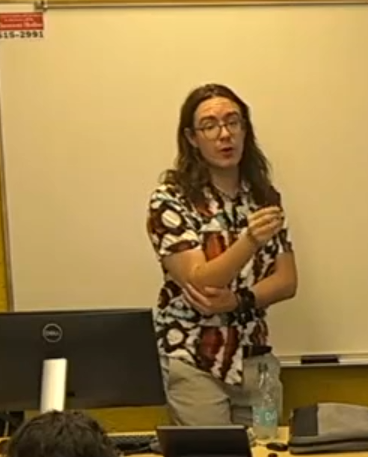
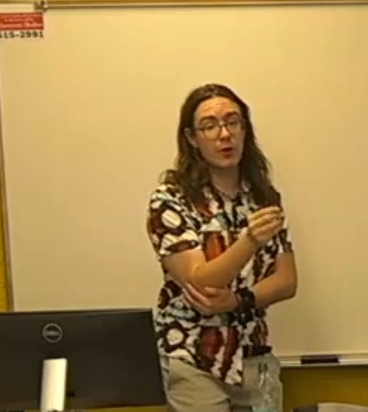
updates

diff --git a/docs/about.html b/docs/about.html
@@ -78,7 +78,7 @@ ul.task-list li input[type="checkbox"] {
       <div class="navbar-container container-fluid">
       <div class="navbar-brand-container mx-auto">
     <a class="navbar-brand" href="./index.html">
-    <span class="navbar-title">My Website</span>
+    <span class="navbar-title">Robert Michael Ferrand</span>
     </a>
   </div>
             <div id="quarto-search" class="" title="Search"></div>
@@ -86,14 +86,14 @@ ul.task-list li input[type="checkbox"] {
   <span class="navbar-toggler-icon"></span>
 </button>
           <div class="collapse navbar-collapse" id="navbarCollapse">
-            <ul class="navbar-nav navbar-nav-scroll ms-auto">
+            <ul class="navbar-nav navbar-nav-scroll me-auto">
   <li class="nav-item">
     <a class="nav-link active" href="./about.html" aria-current="page"> 
 <span class="menu-text">About</span></a>
   </li>  
   <li class="nav-item">
-    <a class="nav-link" href="./hello.html"> 
-<span class="menu-text">Hello</span></a>
+    <a class="nav-link" href="./projects.html"> 
+<span class="menu-text">Projects</span></a>
   </li>  
   <li class="nav-item">
     <a class="nav-link" href="./contact.html"> 
@@ -133,9 +133,7 @@ ul.task-list li input[type="checkbox"] {
 </header>
 
 
-<div class="row">
-<p><img src="images/1unedit.png" class="img-fluid quarto-figure quarto-figure-center" alt="Image 1"> <img src="images/1.5.jpg" class="img-fluid quarto-figure quarto-figure-center" alt="Image 2"> <img src="images/2.png" class="img-fluid quarto-figure quarto-figure-center" alt="Image 3"></p>
-</div>
+<p><img src="images/1unedit.png" class="img-fluid quarto-figure quarto-figure-center" style="width:29.5%" alt="Image 1"> <img src="images/1.5.jpg" class="img-fluid quarto-figure quarto-figure-center" style="filter: brightness(.90);width:33.0%" alt="Image 2"> <img src="images/2.PNG" class="img-fluid quarto-figure quarto-figure-center" style="width:30.0%" alt="Image 3"></p>
 <p>Hi! I’m Robbie, a Data Scientist/Statistician passionate about using statistics for the right reasons. This is my website, where I display parts of myself to hopefully give you a good idea of what I’m about :).</p>
 
 

diff --git a/docs/contact.html b/docs/contact.html
@@ -78,7 +78,7 @@ ul.task-list li input[type="checkbox"] {
       <div class="navbar-container container-fluid">
       <div class="navbar-brand-container mx-auto">
     <a class="navbar-brand" href="./index.html">
-    <span class="navbar-title">My Website</span>
+    <span class="navbar-title">Robert Michael Ferrand</span>
     </a>
   </div>
             <div id="quarto-search" class="" title="Search"></div>
@@ -86,14 +86,14 @@ ul.task-list li input[type="checkbox"] {
   <span class="navbar-toggler-icon"></span>
 </button>
           <div class="collapse navbar-collapse" id="navbarCollapse">
-            <ul class="navbar-nav navbar-nav-scroll ms-auto">
+            <ul class="navbar-nav navbar-nav-scroll me-auto">
   <li class="nav-item">
     <a class="nav-link" href="./about.html"> 
 <span class="menu-text">About</span></a>
   </li>  
   <li class="nav-item">
-    <a class="nav-link" href="./hello.html"> 
-<span class="menu-text">Hello</span></a>
+    <a class="nav-link" href="./projects.html"> 
+<span class="menu-text">Projects</span></a>
   </li>  
   <li class="nav-item">
     <a class="nav-link active" href="./contact.html" aria-current="page"> 
@@ -133,7 +133,8 @@ ul.task-list li input[type="checkbox"] {
 </header>
 
 
-<p><a href="robertferrand@gmail.com">Email</a> <a href="https://www.linkedin.com/in/robert-ferrand/">LinkedIn</a></p>
+<p><a href="robertferrand@gmail.com">Email</a></p>
+<p><a href="https://www.linkedin.com/in/robert-ferrand/">LinkedIn</a></p>
 
 
 

diff --git a/docs/projects.html b/docs/projects.html
@@ -78,7 +78,7 @@ ul.task-list li input[type="checkbox"] {
       <div class="navbar-container container-fluid">
       <div class="navbar-brand-container mx-auto">
     <a class="navbar-brand" href="./index.html">
-    <span class="navbar-title">My Website</span>
+    <span class="navbar-title">Robert Michael Ferrand</span>
     </a>
   </div>
             <div id="quarto-search" class="" title="Search"></div>
@@ -86,14 +86,14 @@ ul.task-list li input[type="checkbox"] {
   <span class="navbar-toggler-icon"></span>
 </button>
           <div class="collapse navbar-collapse" id="navbarCollapse">
-            <ul class="navbar-nav navbar-nav-scroll ms-auto">
+            <ul class="navbar-nav navbar-nav-scroll me-auto">
   <li class="nav-item">
     <a class="nav-link" href="./about.html"> 
 <span class="menu-text">About</span></a>
   </li>  
   <li class="nav-item">
-    <a class="nav-link active" href="./hello.html" aria-current="page"> 
-<span class="menu-text">Hello</span></a>
+    <a class="nav-link active" href="./projects.html" aria-current="page"> 
+<span class="menu-text">Projects</span></a>
   </li>  
   <li class="nav-item">
     <a class="nav-link" href="./contact.html"> 

diff --git a/docs/index.html b/docs/index.html
@@ -78,7 +78,7 @@ ul.task-list li input[type="checkbox"] {
       <div class="navbar-container container-fluid">
       <div class="navbar-brand-container mx-auto">
     <a class="navbar-brand" href="./index.html">
-    <span class="navbar-title">My Website</span>
+    <span class="navbar-title">Robert Michael Ferrand</span>
     </a>
   </div>
             <div id="quarto-search" class="" title="Search"></div>
@@ -86,14 +86,14 @@ ul.task-list li input[type="checkbox"] {
   <span class="navbar-toggler-icon"></span>
 </button>
           <div class="collapse navbar-collapse" id="navbarCollapse">
-            <ul class="navbar-nav navbar-nav-scroll ms-auto">
+            <ul class="navbar-nav navbar-nav-scroll me-auto">
   <li class="nav-item">
     <a class="nav-link" href="./about.html"> 
 <span class="menu-text">About</span></a>
   </li>  
   <li class="nav-item">
-    <a class="nav-link" href="./hello.html"> 
-<span class="menu-text">Hello</span></a>
+    <a class="nav-link" href="./projects.html"> 
+<span class="menu-text">Projects</span></a>
   </li>  
   <li class="nav-item">
     <a class="nav-link" href="./contact.html"> 
